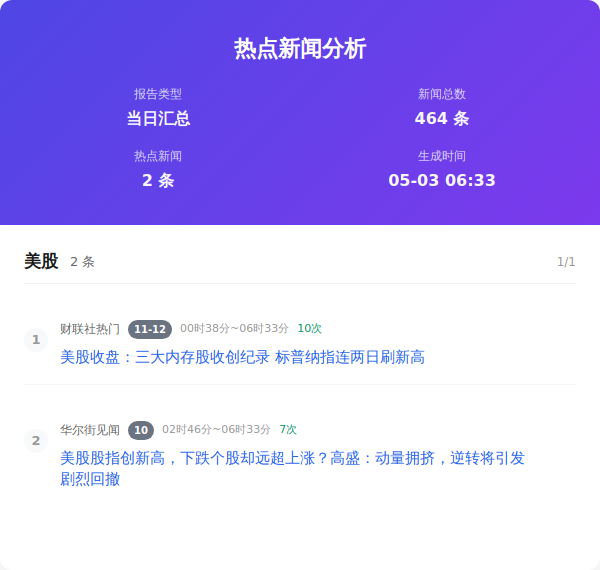
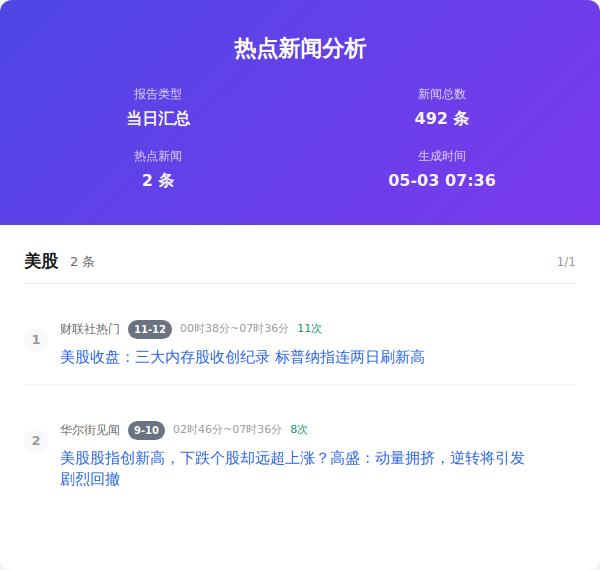
Auto update by GitHub Actions at Sun May  3 07:36:26 CST 2026

diff --git a/output/2026年05月03日/html/当日汇总.html b/output/2026年05月03日/html/当日汇总.html
@@ -357,7 +357,7 @@
                     </div>
                     <div class="info-item">
                         <span class="info-label">新闻总数</span>
-                        <span class="info-value">464 条</span>
+                        <span class="info-value">492 条</span>
                     </div>
                     <div class="info-item">
                         <span class="info-label">热点新闻</span>
@@ -365,7 +365,7 @@
                     </div>
                     <div class="info-item">
                         <span class="info-label">生成时间</span>
-                        <span class="info-value">05-03 06:33</span>
+                        <span class="info-value">05-03 07:36</span>
                     </div>
                 </div>
             </div>
@@ -383,7 +383,7 @@
                         <div class="news-number">1</div>
                         <div class="news-content">
                             <div class="news-header">
-                                <span class="source-name">财联社热门</span><span class="rank-num ">11-12</span><span class="time-info">00时38分~06时33分</span><span class="count-info">10次</span>
+                                <span class="source-name">财联社热门</span><span class="rank-num ">11-12</span><span class="time-info">00时38分~07时36分</span><span class="count-info">11次</span>
                             </div>
                             <div class="news-title"><a href="https://www.cls.cn/detail/2362019" target="_blank" class="news-link">美股收盘：三大内存股收创纪录 标普纳指连两日刷新高</a>
                             </div>
@@ -393,7 +393,7 @@
                         <div class="news-number">2</div>
                         <div class="news-content">
                             <div class="news-header">
-                                <span class="source-name">华尔街见闻</span><span class="rank-num ">10</span><span class="time-info">02时46分~06时33分</span><span class="count-info">7次</span>
+                                <span class="source-name">华尔街见闻</span><span class="rank-num ">9-10</span><span class="time-info">02时46分~07时36分</span><span class="count-info">8次</span>
                             </div>
                             <div class="news-title"><a href="https://wallstreetcn.com/articles/3771483" target="_blank" class="news-link">美股股指创新高，下跌个股却远超上涨？高盛：动量拥挤，逆转将引发剧烈回撤</a>
                             </div>